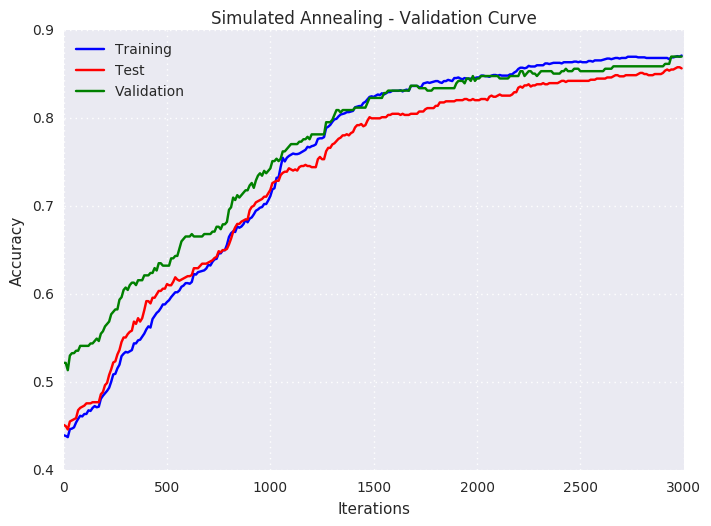
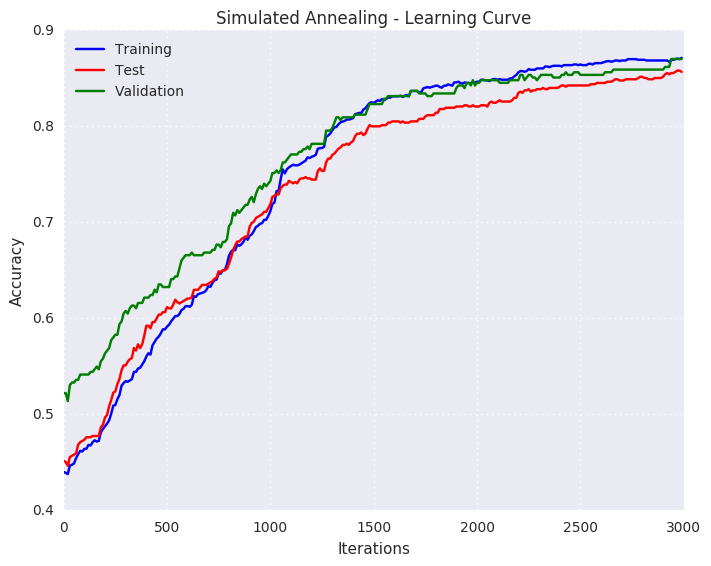
Updated plots

diff --git a/src/nn_plots.py b/src/nn_plots.py
@@ -9,7 +9,8 @@ import matplotlib
 matplotlib.use('agg')
 import seaborn as sns
 import matplotlib.pyplot as plt
-sns.set_context(rc={'lines.markeredgewidth': 1.0})
+sns.set_context('notebook', rc={'lines.markeredgewidth': 1.0})
+sns.set_style("darkgrid")
 
 
 def combine_datasets(df):
@@ -143,7 +144,7 @@ def combined_acc(df):
     plt.ylim(ymax=1.025)
     plt.legend(loc='best')
     plt.grid(linestyle='dotted')
-    plt.title('Algorithm Comparison (training data) - Accuracy')
+    plt.title('Algorithm Comparison - Learning Curve (train)')
     plt.xlabel('Iterations')
     plt.ylabel('Accuracy')
 
@@ -166,7 +167,7 @@ def combined_acc(df):
     plt.ylim(ymax=1.025)
     plt.legend(loc='best')
     plt.grid(linestyle='dotted')
-    plt.title('Algorithm Comparison (test data) - Accuracy')
+    plt.title('Algorithm Comparison - Learning Curve (test)')
     plt.xlabel('Iterations')
     plt.ylabel('Accuracy')
 
@@ -253,8 +254,8 @@ def error_curve(df, oaName, title):
     plt.clf()
 
 
-def validation_curve(df, oaName, title):
-    """Plots the validation curve for a given optimization algorithm on the
+def learning_curve(df, oaName, title):
+    """Plots the learning curve for a given optimization algorithm on the
     seismic-bumps dataset and saves it as a PNG file.
 
     Args:
@@ -270,14 +271,14 @@ def validation_curve(df, oaName, title):
     acc_test = df['acc_test']
     acc_valid = df['acc_validation']
 
-    # create validation curve
+    # create learning curve
     plt.figure(0)
     plt.plot(iterations, acc_train, color='b', label='Training')
     plt.plot(iterations, acc_test, color='r', label='Test')
     plt.plot(iterations, acc_valid, color='g', label='Validation')
     plt.legend(loc='best')
     plt.grid(linestyle='dotted')
-    plt.title('{} - Validation Curve'.format(title))
+    plt.title('{} - Learning Curve'.format(title))
     plt.xlabel('Iterations')
     plt.ylabel('Accuracy')
 
@@ -333,7 +334,7 @@ def sa_complexity_curve():
     plt.plot(iters, train_90, color='m', label='CR - 0.90')
     plt.legend(loc='best')
     plt.grid(linestyle='dotted')
-    plt.title('SA (training data) - Complexity Curve (Cooling rate)')
+    plt.title('SA Validation Curve - Cooling Rate (train)')
     plt.xlabel('Iterations')
     plt.ylabel('Mean squared error')
 
@@ -353,7 +354,7 @@ def sa_complexity_curve():
     plt.plot(iters, test_90, color='m', label='CR - 0.90')
     plt.legend(loc='best')
     plt.grid(linestyle='dotted')
-    plt.title('SA (test data) - Complexity Curve (Cooling rate)')
+    plt.title('SA Validation Curve - Cooling Rate (test)')
     plt.xlabel('Iterations')
     plt.ylabel('Mean squared error')
 
@@ -379,10 +380,10 @@ if __name__ == '__main__':
     error_curve(GA, oaName='GA', title='Genetic Algorithms')
 
     # generate validation curves
-    validation_curve(BP, oaName='BP', title='Backpropagation')
-    validation_curve(RHC, oaName='RHC', title='Randomized Hill Climbing')
-    validation_curve(SA, oaName='SA', title='Simulated Annealing')
-    validation_curve(GA, oaName='GA', title='Genetic Algorithms')
+    learning_curve(BP, oaName='BP', title='Backpropagation')
+    learning_curve(RHC, oaName='RHC', title='Randomized Hill Climbing')
+    learning_curve(SA, oaName='SA', title='Simulated Annealing')
+    learning_curve(GA, oaName='GA', title='Genetic Algorithms')
 
     # generate combined dataset
     datafiles = {'BP': BP, 'RHC': RHC, 'SA': SA, 'GA': GA}
